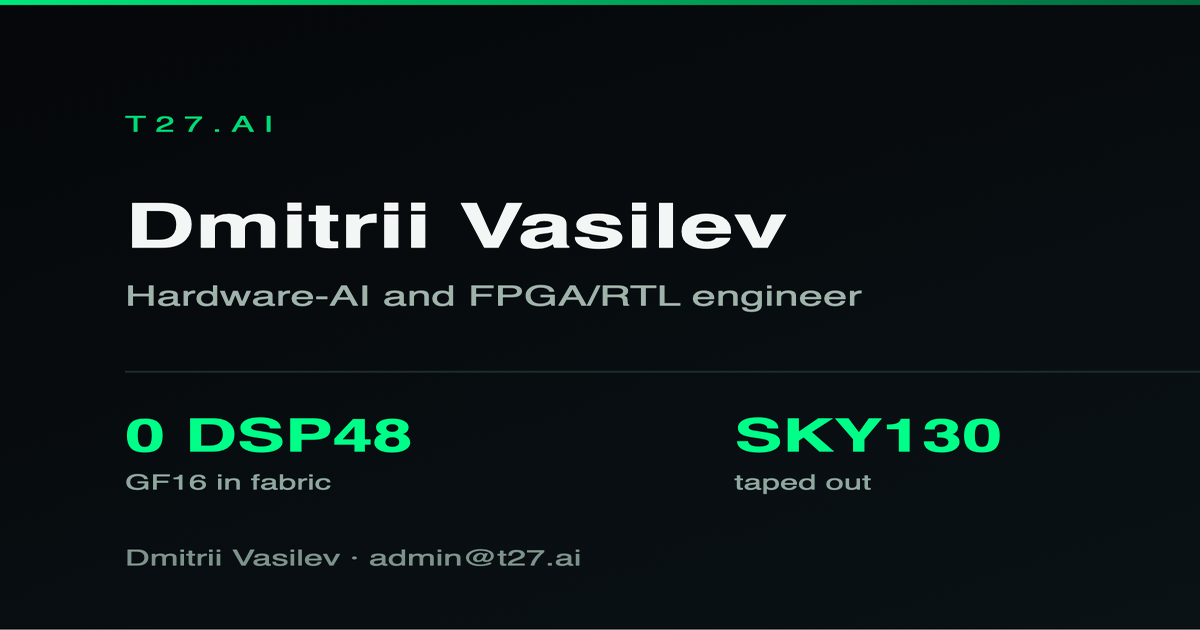
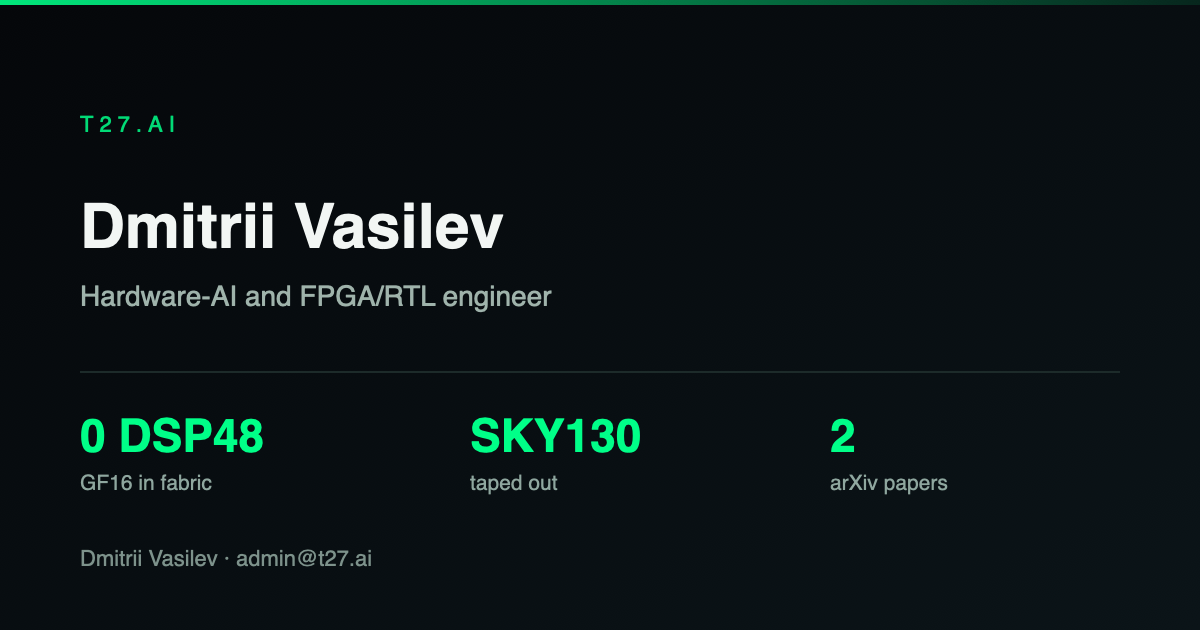
Un-crop every preview card, and give /resources a landing
Two things, and the first is a defect I shipped.

The rasteriser was cropping every card. qlmanage fits a render to the taller
axis and crops the wider one, so handing it a 1200x630 card produced a 1.563x
magnification with everything past x~768 simply gone. That silently removed the
third statistic from all eight cards — "147 MHz pipelined on Artix-7",
"SKY130 taped out", "2 arXiv papers", "0 vendor licences", "bit-exact vs
independent model" — and the result still looked like a finished card, which is
exactly why it shipped. The source SVGs were always correct.

The card is now nested in a 1200x1200 artboard before rendering. A square source
has nothing to crop, so the full width survives and the card lands at a known
offset — a fixed crop instead of a guess about where the artwork begins.
Rightmost content moved from ~990px to 1028-1100px on the cards that have a
third column; og-gft now shows all three.

Second: /resources had no landing. It is 1197 words in the app — three arXiv
preprints, ten Zenodo records with DOIs, six patches sent upstream to openXC7
and nextpnr-xilinx — and it was reachable only through the fragment router, so
none of it could be indexed or previewed. It now has a 501-word static landing,
a sitemap entry, a nav entry and a card, which is what this project's own rule
asks of a new page.

The copy states what the page holds and why identifiers are given instead of
repository links. It does not restate any measurement. The upstream patches are
[…]

diff --git a/resources/index.html b/resources/index.html
@@ -1,0 +1,96 @@
+<!doctype html>
+<html lang="en">
+<head>
+<meta charset="utf-8" />
+<meta name="viewport" content="width=device-width, initial-scale=1" />
+<title>Papers, datasets and upstream patches · TRINITY</title>
+<meta name="description" content="Three arXiv papers, ten Zenodo records with DOIs, and the patches sent upstream to the open FPGA toolchain. The corpus is link-checked, dated, and lists its own known discrepancies rather than hiding them." />
+<link rel="canonical" href="https://t27.ai/resources/" />
+<meta property="og:type" content="website" />
+<meta property="og:site_name" content="TRINITY" />
+<meta property="og:url" content="https://t27.ai/resources/" />
+<meta property="og:title" content="Papers, datasets and upstream patches" />
+<meta property="og:description" content="Three arXiv papers, ten Zenodo records with DOIs, and the patches sent upstream to the open FPGA toolchain. The corpus is link-checked, dated, and lists its own known discrepancies rather than hiding them." />
+<meta property="og:image" content="https://t27.ai/og-resources.png" />
+<meta name="twitter:card" content="summary_large_image" />
+<meta name="twitter:title" content="Papers, datasets and upstream patches" />
+<meta name="twitter:description" content="Three arXiv papers, ten Zenodo records with DOIs, and the patches sent upstream to the open FPGA toolchain. The corpus is link-checked, dated, and lists its own known discrepancies rather than hiding them." />
+<link rel="icon" href="/favicon.svg" />
+<style>*,*::before,*::after{box-sizing:border-box}
+:root{--bg:#05070a;--card:#0b1014;--ink:#e9f1ee;--muted:#8fa79f;--accent:#00ff88;--rule:#1b2724}
+body{margin:0;background:var(--bg);color:var(--ink);font:16px/1.65 -apple-system,BlinkMacSystemFont,"Segoe UI",Inter,Helvetica,Arial,sans-serif;-webkit-font-smoothing:antialiased}
+a{color:var(--accent)}
+/* Centred to match the app. These pages were left-aligned while every page in
+   the SPA centres its content, so landing here from a link felt like a different
+   site with everything shoved against the left edge. */
+.wrap{max-width:820px;margin:0 auto;padding:28px 20px 72px;text-align:center}
+header.top{display:flex;flex-wrap:wrap;gap:10px 18px;align-items:center;justify-content:center;padding-bottom:18px;border-bottom:1px solid var(--rule)}
+.brand{font-weight:700;letter-spacing:.18em;font-size:12px;color:var(--accent);text-decoration:none}
+/* Inline anchors wrap by word, which split "CASE STUDIES" across two lines and
+   pushed "CASE" off the right edge at 375px. Flex with a gap wraps whole items. */
+nav.top{display:flex;flex-wrap:wrap;gap:6px 14px;justify-content:center}
+nav.top a{font-size:12px;text-transform:uppercase;letter-spacing:.08em;text-decoration:none;color:var(--muted);white-space:nowrap}
+nav.top a:hover,nav.top a[aria-current]{color:var(--accent)}
+.eyebrow{color:var(--accent);text-transform:uppercase;letter-spacing:.14em;font-size:12px;margin:38px 0 10px}
+h1{font-size:clamp(1.9rem,5.5vw,2.7rem);line-height:1.15;margin:0 0 14px;text-wrap:balance}
+.lede{font-size:1.08rem;color:var(--muted);margin:0 auto 26px;max-width:62ch}
+h2{font-size:1.25rem;margin:40px 0 14px;padding-bottom:8px;border-bottom:1px solid var(--rule);text-align:center}
+.items{display:grid;gap:14px}
+.item{background:var(--card);border:1px solid var(--rule);border-radius:14px;padding:16px 18px}
+.item h3{font-size:1rem;margin:0 0 6px;color:var(--accent)}
+.item p{margin:0;font-size:.95rem;color:#c6d5d0}
+.cta{margin-top:42px;background:var(--card);border:1px solid var(--rule);border-radius:16px;padding:24px}
+.cta p{margin:0 0 16px;color:#c6d5d0}
+.btn{display:inline-block;background:var(--accent);color:#04140d;font-weight:700;text-decoration:none;padding:12px 24px;border-radius:999px;font-size:.92rem}
+.btn.sec{background:transparent;color:var(--ink);border:1px solid var(--rule);font-weight:500}
+.btns{display:flex;flex-wrap:wrap;gap:10px;justify-content:center}
+footer{margin-top:56px;padding-top:20px;border-top:1px solid var(--rule);color:var(--muted);font-size:.85rem}
+footer a{color:var(--muted)}
+@media(prefers-color-scheme:light){:root{--bg:#fbfdfc;--card:#fff;--ink:#101a17;--muted:#5b6f68;--accent:#0a7a4c;--rule:#dde7e3}.item p{color:#394944}.cta p{color:#394944}.btn{color:#fff}}
+</style>
+</head>
+<body>
+<div class="wrap">
+<header class="top">
+  <a class="brand" href="/">T27.AI</a>
+  <nav class="top"><a href="/gft/">GF-T</a><a href="/verification/">Verification</a><a href="/proof/">Evidence</a><a href="/ip/">Licensing</a><a href="/course/">Course</a><a href="/cases/">Case studies</a><a href="/resources/" aria-current="page">Resources</a><a href="/about/">About</a></nav>
+</header>
+
+<p class="eyebrow">The record</p>
+<h1>Everything citable, with its identifier.</h1>
+<p class="lede">One page holding everything that can be cited or checked: the preprints, the archived datasets and their DOIs, the patches sent to other people&#x27;s projects, and the accounts that are actually mine. It exists so a reviewer does not have to take a claim on trust or reconstruct the trail from a CV.</p>
+
+<h2>What is on it</h2>
+<div class="items">
+<div class="item"><h3>Three arXiv preprints</h3><p>arXiv:2605.28405, arXiv:2606.05017 and arXiv:2606.09686. Listed with their identifiers, so the version you read is the version being referred to.</p></div>
+<div class="item"><h3>Ten Zenodo records, each with a DOI</h3><p>The GoldenFloat format description and the Trinity B001 to B007 collection, among others. A DOI resolves to a fixed deposit, which a repository link does not.</p></div>
+<div class="item"><h3>Six patches sent upstream</h3><p>Changes offered to openXC7 and nextpnr-xilinx, numbered #109 to #115, covering timing constraint parsing, clock buffer placement and IDDR initialisation. Their state is shown on the page as it stands, not as it was hoped.</p></div>
+<div class="item"><h3>Accounts and identities</h3><p>ORCID and the channels that are genuinely mine, so a name collision elsewhere does not get attributed here.</p></div>
+</div>
+<h2>Why it is arranged this way</h2>
+<div class="items">
+<div class="item"><h3>The corpus carries a date</h3><p>The links were checked on a stated date, which is shown on the page. A list of references with no check date says nothing about whether it still resolves.</p></div>
+<div class="item"><h3>Known discrepancies are counted, not hidden</h3><p>The page computes its own broken and contradictory entries and shows how many there are. A reference list that never admits a bad entry has simply never been checked.</p></div>
+<div class="item"><h3>Identifiers over links</h3><p>A DOI or an arXiv id survives a repository being renamed, moved or made private. Where one exists, it is what is given.</p></div>
+</div>
+
+<div class="cta">
+  <p>Cite the DOI or the arXiv identifier rather than a repository URL — those survive a rename. If something here does not resolve for you, that is worth an email: the discrepancy list is only as good as the last time someone looked.</p>
+  <div class="btns">
+    <a class="btn" href="mailto:admin@t27.ai?subject=Papers, datasets and upstream patches">admin@t27.ai</a>
+    <a class="btn sec" href="https://github.com/gHashTag/trinity/blob/main/docs/verification/SAMPLE-REPORT.md">Read a sample report</a>
+    <a class="btn sec" href="/#/resources">Open the interactive site</a>
+  </div>
+</div>
+
+<footer>
+  Dmitrii Vasilev — hardware-AI and FPGA/RTL engineer.
+  <a href="https://github.com/gHashTag">GitHub</a> ·
+  <a href="https://linkedin.com/in/neurocoder">LinkedIn</a> ·
+  <a href="https://t27.ai/cv.pdf">CV</a> ·
+  <a href="https://arxiv.org/abs/2606.05017">arXiv:2606.05017</a> ·
+  <a href="https://arxiv.org/abs/2606.09686">arXiv:2606.09686</a>
+</footer>
+</div>
+</body>
+</html>

diff --git a/verification/index.html b/verification/index.html
@@ -53,7 +53,7 @@ footer a{color:var(--muted)}
 <div class="wrap">
 <header class="top">
   <a class="brand" href="/">T27.AI</a>
-  <nav class="top"><a href="/gft/">GF-T</a><a href="/verification/" aria-current="page">Verification</a><a href="/proof/">Evidence</a><a href="/ip/">Licensing</a><a href="/course/">Course</a><a href="/cases/">Case studies</a><a href="/about/">About</a></nav>
+  <nav class="top"><a href="/gft/">GF-T</a><a href="/verification/" aria-current="page">Verification</a><a href="/proof/">Evidence</a><a href="/ip/">Licensing</a><a href="/course/">Course</a><a href="/cases/">Case studies</a><a href="/resources/">Resources</a><a href="/about/">About</a></nav>
 </header>
 
 <p class="eyebrow">Verification service</p>

diff --git a/proof/index.html b/proof/index.html
@@ -53,7 +53,7 @@ footer a{color:var(--muted)}
 <div class="wrap">
 <header class="top">
   <a class="brand" href="/">T27.AI</a>
-  <nav class="top"><a href="/gft/">GF-T</a><a href="/verification/">Verification</a><a href="/proof/" aria-current="page">Evidence</a><a href="/ip/">Licensing</a><a href="/course/">Course</a><a href="/cases/">Case studies</a><a href="/about/">About</a></nav>
+  <nav class="top"><a href="/gft/">GF-T</a><a href="/verification/">Verification</a><a href="/proof/" aria-current="page">Evidence</a><a href="/ip/">Licensing</a><a href="/course/">Course</a><a href="/cases/">Case studies</a><a href="/resources/">Resources</a><a href="/about/">About</a></nav>
 </header>
 
 <p class="eyebrow">Measured evidence</p>

diff --git a/cases/index.html b/cases/index.html
@@ -53,7 +53,7 @@ footer a{color:var(--muted)}
 <div class="wrap">
 <header class="top">
   <a class="brand" href="/">T27.AI</a>
-  <nav class="top"><a href="/gft/">GF-T</a><a href="/verification/">Verification</a><a href="/proof/">Evidence</a><a href="/ip/">Licensing</a><a href="/course/">Course</a><a href="/cases/" aria-current="page">Case studies</a><a href="/about/">About</a></nav>
+  <nav class="top"><a href="/gft/">GF-T</a><a href="/verification/">Verification</a><a href="/proof/">Evidence</a><a href="/ip/">Licensing</a><a href="/course/">Course</a><a href="/cases/" aria-current="page">Case studies</a><a href="/resources/">Resources</a><a href="/about/">About</a></nav>
 </header>
 
 <p class="eyebrow">Case studies</p>

diff --git a/ip/index.html b/ip/index.html
@@ -53,7 +53,7 @@ footer a{color:var(--muted)}
 <div class="wrap">
 <header class="top">
   <a class="brand" href="/">T27.AI</a>
-  <nav class="top"><a href="/gft/">GF-T</a><a href="/verification/">Verification</a><a href="/proof/">Evidence</a><a href="/ip/" aria-current="page">Licensing</a><a href="/course/">Course</a><a href="/cases/">Case studies</a><a href="/about/">About</a></nav>
+  <nav class="top"><a href="/gft/">GF-T</a><a href="/verification/">Verification</a><a href="/proof/">Evidence</a><a href="/ip/" aria-current="page">Licensing</a><a href="/course/">Course</a><a href="/cases/">Case studies</a><a href="/resources/">Resources</a><a href="/about/">About</a></nav>
 </header>
 
 <p class="eyebrow">IP licensing</p>

diff --git a/gft/index.html b/gft/index.html
@@ -53,7 +53,7 @@ footer a{color:var(--muted)}
 <div class="wrap">
 <header class="top">
   <a class="brand" href="/">T27.AI</a>
-  <nav class="top"><a href="/gft/" aria-current="page">GF-T</a><a href="/verification/">Verification</a><a href="/proof/">Evidence</a><a href="/ip/">Licensing</a><a href="/course/">Course</a><a href="/cases/">Case studies</a><a href="/about/">About</a></nav>
+  <nav class="top"><a href="/gft/" aria-current="page">GF-T</a><a href="/verification/">Verification</a><a href="/proof/">Evidence</a><a href="/ip/">Licensing</a><a href="/course/">Course</a><a href="/cases/">Case studies</a><a href="/resources/">Resources</a><a href="/about/">About</a></nav>
 </header>
 
 <p class="eyebrow">The format</p>

diff --git a/course/index.html b/course/index.html
@@ -53,7 +53,7 @@ footer a{color:var(--muted)}
 <div class="wrap">
 <header class="top">
   <a class="brand" href="/">T27.AI</a>
-  <nav class="top"><a href="/gft/">GF-T</a><a href="/verification/">Verification</a><a href="/proof/">Evidence</a><a href="/ip/">Licensing</a><a href="/course/" aria-current="page">Course</a><a href="/cases/">Case studies</a><a href="/about/">About</a></nav>
+  <nav class="top"><a href="/gft/">GF-T</a><a href="/verification/">Verification</a><a href="/proof/">Evidence</a><a href="/ip/">Licensing</a><a href="/course/" aria-current="page">Course</a><a href="/cases/">Case studies</a><a href="/resources/">Resources</a><a href="/about/">About</a></nav>
 </header>
 
 <p class="eyebrow">Course</p>

diff --git a/about/index.html b/about/index.html
@@ -53,7 +53,7 @@ footer a{color:var(--muted)}
 <div class="wrap">
 <header class="top">
   <a class="brand" href="/">T27.AI</a>
-  <nav class="top"><a href="/gft/">GF-T</a><a href="/verification/">Verification</a><a href="/proof/">Evidence</a><a href="/ip/">Licensing</a><a href="/course/">Course</a><a href="/cases/">Case studies</a><a href="/about/" aria-current="page">About</a></nav>
+  <nav class="top"><a href="/gft/">GF-T</a><a href="/verification/">Verification</a><a href="/proof/">Evidence</a><a href="/ip/">Licensing</a><a href="/course/">Course</a><a href="/cases/">Case studies</a><a href="/resources/">Resources</a><a href="/about/" aria-current="page">About</a></nav>
 </header>
 
 <p class="eyebrow">About</p>

diff --git a/build-og.py b/build-og.py
@@ -23,22 +23,26 @@ REPO = Path(__file__).resolve().parent
 TMP = Path("/tmp/ogbuild2")
 
 
-def card_box(im: Image.Image):
-    """Bounding box of everything that is not the white padding."""
-    rgb = im.convert("RGB")
-    px = rgb.load()
-    w, h = rgb.size
-    def row_is_pad(y):
-        return all(px[x, y] > (245, 245, 245) for x in range(0, w, 7))
-    def col_is_pad(x):
-        return all(px[x, y] > (245, 245, 245) for y in range(0, h, 7))
-    top = next((y for y in range(h) if not row_is_pad(y)), None)
-    if top is None:
-        return None
-    bottom = next(y for y in range(h - 1, -1, -1) if not row_is_pad(y))
-    left = next(x for x in range(w) if not col_is_pad(x))
-    right = next(x for x in range(w - 1, -1, -1) if not col_is_pad(x))
-    return left, top, right + 1, bottom + 1
+def square_wrapper(svg_text: str) -> str:
+    """Nest the 1200x630 card inside a 1200x1200 artboard.
+
+    qlmanage fits a render to the taller axis and then crops the wider one, so
+    handing it the card directly produced a 1.563x magnification with everything
+    past x~768 simply gone. That is not a subtle failure: it silently removed the
+    third statistic from every card -- "147 MHz pipelined on Artix-7",
+    "SKY130 taped out", "2 arXiv papers" -- and the result still looked like a
+    finished card, which is why it shipped.
+
+    A square source has nothing to crop, so the whole width survives and the card
+    lands at a known offset instead of a detected one.
+    """
+    inner = svg_text.replace("<svg ", '<svg x="0" y="285" ', 1)
+    return (
+        '<svg xmlns="http://www.w3.org/2000/svg" width="1200" height="1200" '
+        'viewBox="0 0 1200 1200">'
+        '<rect width="1200" height="1200" fill="#05070a"/>'
+        f"{inner}</svg>"
+    )
 
 
 def main():
@@ -50,25 +54,28 @@ def main():
     for svg in svgs:
         for stale in TMP.glob("*.png"):
             stale.unlink()
-        subprocess.run(["qlmanage", "-t", "-s", "1200", "-o", str(TMP), str(svg)],
+        square = TMP / f"{svg.stem}.square.svg"
+        square.write_text(square_wrapper(svg.read_text(encoding="utf-8")), encoding="utf-8")
+        subprocess.run(["qlmanage", "-t", "-s", "1200", "-o", str(TMP), str(square)],
                        capture_output=True)
-        raw = TMP / f"{svg.name}.png"
+        raw = TMP / f"{square.name}.png"
         if not raw.exists():
             print(f"  {svg.name}: RASTERISE FAILED")
             bad += 1
             continue
-        im = Image.open(raw)
-        box = card_box(im)
-        if box is None:
-            print(f"  {svg.name}: no card found in render")
+        im = Image.open(raw).convert("RGB")
+        if im.size != (1200, 1200):
+            print(f"  {svg.name}: expected a 1200x1200 render, got {im.size}")
             bad += 1
             continue
-        card = im.convert("RGB").crop(box).resize((W, H), Image.LANCZOS)
+        # The card sits at a known offset in a square artboard, so this is a
+        # fixed crop rather than a guess about where the artwork begins.
+        card = im.crop((0, 285, 1200, 915))
+        if card.size != (W, H):
+            card = card.resize((W, H), Image.LANCZOS)
         out = REPO / f"{svg.stem}.png"
         card.save(out, "PNG", optimize=True)
-        bw, bh = box[2] - box[0], box[3] - box[1]
-        print(f"  {svg.name:<22} box {bw}x{bh} -> {out.name} "
-              f"({out.stat().st_size // 1024} kB)")
+        print(f"  {svg.name:<22} -> {out.name} ({out.stat().st_size // 1024} kB)")
     sys.exit(1 if bad else 0)
 
 

diff --git a/build-landing.py b/build-landing.py
@@ -225,6 +225,40 @@ PAGES = {
         ],
         "cta": "Basic Python and some idea of digital logic is enough. Verilog is taught from scratch, and two of the formats include runs on my hardware.",
     },
+    "resources": {
+        "title": "Papers, datasets and upstream patches",
+        "eyebrow": "The record",
+        "h1": "Everything citable, with its identifier.",
+        "desc": (
+            "Three arXiv papers, ten Zenodo records with DOIs, and the patches sent upstream to the "
+            "open FPGA toolchain. The corpus is link-checked, dated, and lists its own known "
+            "discrepancies rather than hiding them."
+        ),
+        "lede": (
+            "One page holding everything that can be cited or checked: the preprints, the archived "
+            "datasets and their DOIs, the patches sent to other people's projects, and the accounts "
+            "that are actually mine. It exists so a reviewer does not have to take a claim on trust "
+            "or reconstruct the trail from a CV."
+        ),
+        "sections": [
+            ("What is on it", [
+                ("Three arXiv preprints", "arXiv:2605.28405, arXiv:2606.05017 and arXiv:2606.09686. Listed with their identifiers, so the version you read is the version being referred to."),
+                ("Ten Zenodo records, each with a DOI", "The GoldenFloat format description and the Trinity B001 to B007 collection, among others. A DOI resolves to a fixed deposit, which a repository link does not."),
+                ("Six patches sent upstream", "Changes offered to openXC7 and nextpnr-xilinx, numbered #109 to #115, covering timing constraint parsing, clock buffer placement and IDDR initialisation. Their state is shown on the page as it stands, not as it was hoped."),
+                ("Accounts and identities", "ORCID and the channels that are genuinely mine, so a name collision elsewhere does not get attributed here."),
+            ]),
+            ("Why it is arranged this way", [
+                ("The corpus carries a date", "The links were checked on a stated date, which is shown on the page. A list of references with no check date says nothing about whether it still resolves."),
+                ("Known discrepancies are counted, not hidden", "The page computes its own broken and contradictory entries and shows how many there are. A reference list that never admits a bad entry has simply never been checked."),
+                ("Identifiers over links", "A DOI or an arXiv id survives a repository being renamed, moved or made private. Where one exists, it is what is given."),
+            ]),
+        ],
+        "cta": (
+            "Cite the DOI or the arXiv identifier rather than a repository URL \u2014 those survive a "
+            "rename. If something here does not resolve for you, that is worth an email: the "
+            "discrepancy list is only as good as the last time someone looked."
+        ),
+    },
     "about": {
         "title": "Dmitrii Vasilev — hardware-AI and FPGA/RTL engineer",
         "eyebrow": "About",
@@ -289,6 +323,7 @@ NAV = [
     ("ip", "Licensing"),
     ("course", "Course"),
     ("cases", "Case studies"),
+    ("resources", "Resources"),
     ("about", "About"),
 ]
 
